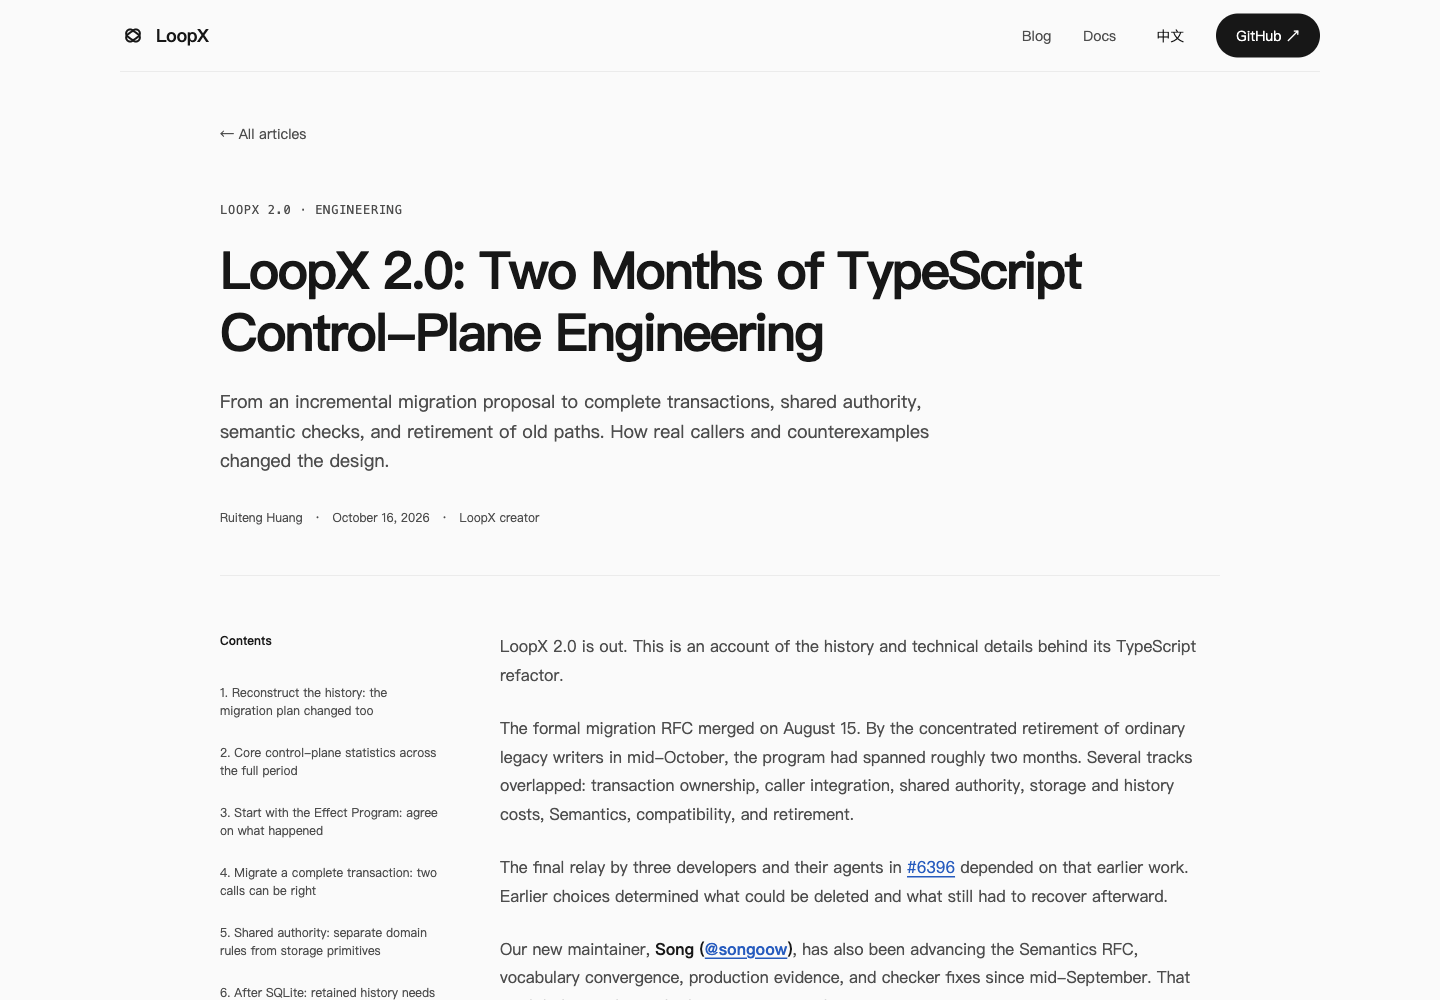
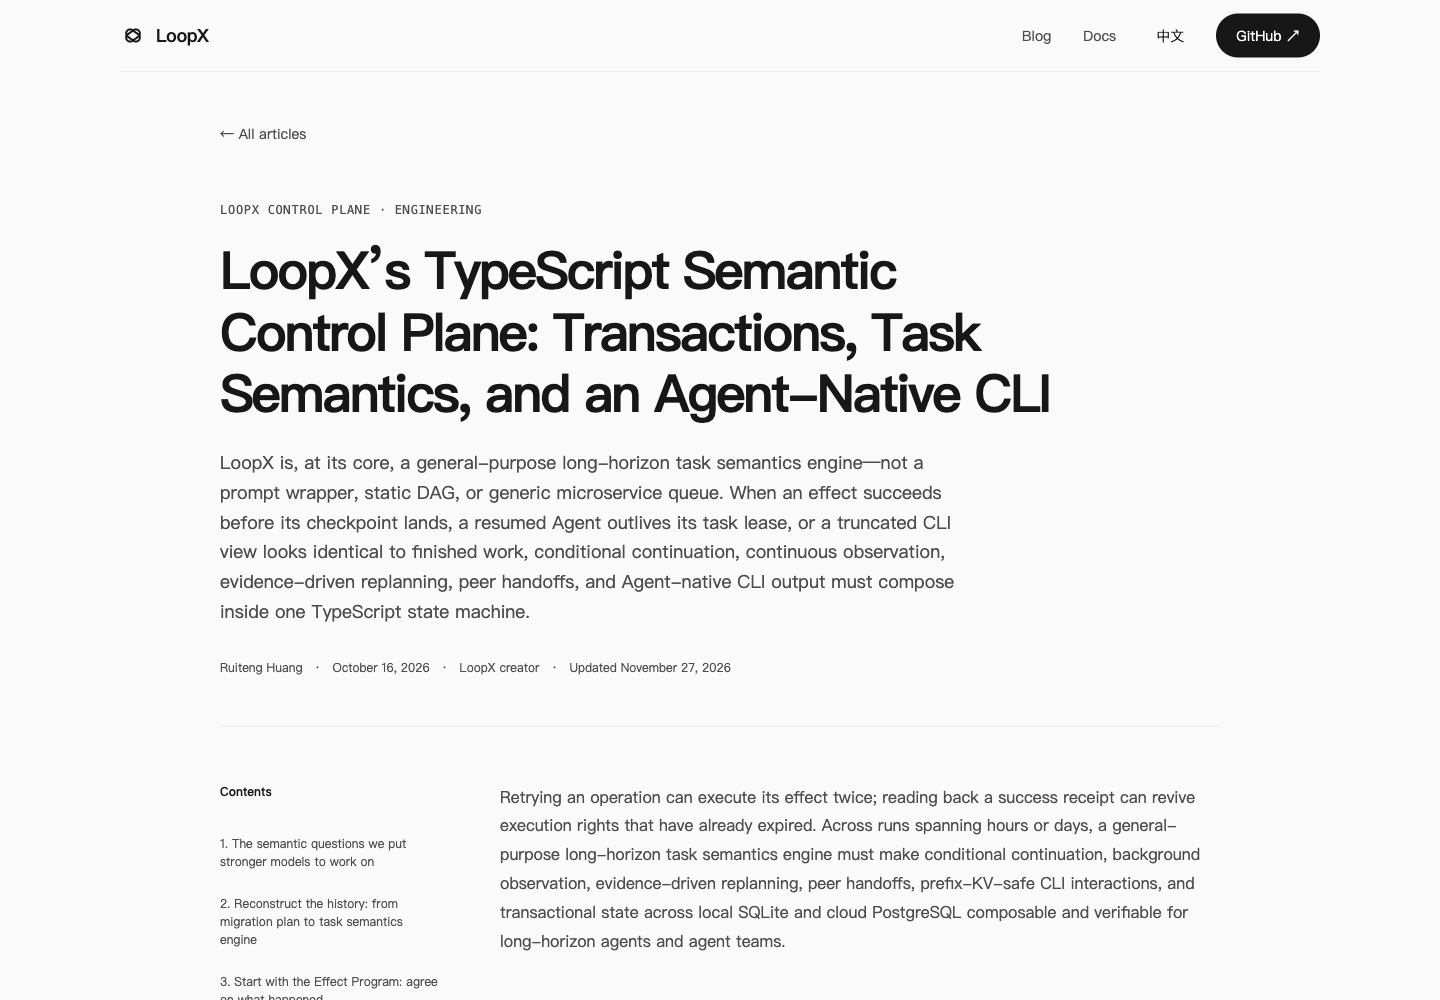
docs(blog): clarify peer inbox completion, make 103d telemetry git-reproducible, and refresh previews

diff --git a/apps/presentation/site/public/blog/typescript-control-plane-refactor/index.html b/apps/presentation/site/public/blog/typescript-control-plane-refactor/index.html
@@ -273,12 +273,12 @@ Existing replay:   TS reduction / original-result recovery
 </tbody></table></div>
 
 <h2 id="peer-handoff-semantics">9. Peer collaboration: why “returned” is not “finished”</h2>
-<p>When an Agent delegates a slice to a peer worker, message delivery is only transport—neither proof that the delegated work is finished nor proof that the requester has adopted it. Building on revision-guarded claims and handoffs (<a href="https://github.com/loopx-project/loopx/pull/3529">#3529</a>, <a href="https://github.com/loopx-project/loopx/pull/3669">#3669</a>, <a href="https://github.com/loopx-project/loopx/pull/4032">#4032</a>, <a href="https://github.com/loopx-project/loopx/pull/4094">#4094</a>), LoopX separates transport delivery, unfinished remainder declarations, requester adoption, and outcome custody:</p>
-<figure class="diagram" aria-label="Peer collaboration separates transport delivery from requester adoption and outcome custody">
-<p class="diagram-label">Peer return &amp; custody contract · transport delivery ≠ requester adoption</p>
+<p>When an Agent delegates a slice to a peer worker, message delivery is only transport—neither proof that the delegated work is finished nor proof that the requester has adopted it. Building on revision-guarded claims and handoffs (<a href="https://github.com/loopx-project/loopx/pull/3529">#3529</a>, <a href="https://github.com/loopx-project/loopx/pull/3669">#3669</a>, <a href="https://github.com/loopx-project/loopx/pull/4032">#4032</a>, <a href="https://github.com/loopx-project/loopx/pull/4094">#4094</a>), LoopX keeps transport delivery, inbox reply completion, per-update requester consumption, and goal acceptance separate:</p>
+<figure class="diagram" aria-label="Peer collaboration separates transport delivery from reply completion, requester consumption, and outcome custody">
+<p class="diagram-label">Peer return &amp; custody contract · transport delivery ≠ reply completion ≠ requester adoption</p>
 <div class="diagram-pair">
 <div class="diagram-node"><b>1. Transport delivery</b><span>A locked four-phase send state machine confirms the message reached the inbox, ordered strictly so newer updates cannot overtake unverified sends.</span><strong>Transport status: delivered</strong></div>
-<div class="diagram-node kernel"><b>2. Semantic completion &amp; adoption</b><span>Any conclusion declaring unfinished remaining work stays open in the inbox until the requester explicitly records a turn-bound adoption or rejection receipt.</span><strong>Semantic state: awaiting adoption</strong></div>
+<div class="diagram-node kernel"><b>2. Reply completion, consumption &amp; acceptance</b><span>A request whose latest conclusion declares remaining work stays open in the inbox until the peer publishes a final conclusion with zero remaining work; turn-bound requester consumption only acknowledges an individual update so it stops re-alerting, while goal acceptance remains separate.</span><strong>Semantic state: open until final conclusion</strong></div>
 </div>
 <p class="return-path">Custody handoff (<a href="https://github.com/loopx-project/loopx/pull/4094">#4094</a>, <a href="https://github.com/loopx-project/loopx/pull/9308">#9308</a>): original authorship and historical review provenance remain immutable when active ownership transfers under a roster-fenced commit.</p>
 </figure>
@@ -550,7 +550,7 @@ Existing replay:   TS reduction / original-result recovery
 <p>Public-safe <a href="../images/typescript-control-plane-refactor/core-pr-cohort.csv">PR records</a>, <a href="../images/typescript-control-plane-refactor/core-mainline-commits.csv">core mainline commits</a>, and <a href="../images/typescript-control-plane-refactor/core-statistics.json">metric JSON</a> accompany the draft. The PR cohort joins mainline commits touching the directory to GitHub merge metadata, counting each PR once. Two mainline commits have no verifiable merged-PR association; their commits and churn remain included.</p>
 <p>The research enumerated public PRs, then checked against mainline Git history. Direct reads supplemented 14 PR metadata records missed by search indexing. Source snapshots and processing scripts remain in the research materials. This inventory does not estimate tokens, model cost, CI compute, engineer-hours, or benchmark gains.</p>
 <h3>103-day convergence snapshot (August 15 – November 27, 2026)</h3>
-<p>Re-running the exact <code>method_version: 1</code> Git stock and first-parent <code>--no-renames</code> churn formulas from <code>d1fe05932a</code> through <code>953377fd7b</code> (<a href="https://github.com/loopx-project/loopx/compare/d1fe05932ac28690d393a38c78b4738ac12c78c0...953377fd7ba8235adf5da08012e593e1798e6ab5">103-day source comparison</a>) captures the post-cutover unified turn loop, task-semantics, Agent-CLI, zero-<code>Any</code>, and cloud storage SPI waves:</p>
+<p>Re-running the exact <code>method_version: 1</code> Git stock and first-parent <code>--no-renames</code> churn formulas from <code>d1fe05932a</code> through <code>953377fd7b</code> (<a href="https://github.com/loopx-project/loopx/compare/d1fe05932ac28690d393a38c78b4738ac12c78c0...953377fd7ba8235adf5da08012e593e1798e6ab5">103-day source comparison</a>) captures the post-cutover unified turn loop, task-semantics, Agent-CLI, zero-<code>Any</code>, and cloud storage SPI waves using strictly Git-reproducible counts (the committed <code>core-pr-cohort.csv</code> and <code>core-statistics.json</code> artifacts remain frozen at the October 16 API snapshot):</p>
 <div class="table-scroll" role="region" tabindex="0" aria-label="103-day core control-plane convergence telemetry"><table>
 <thead>
 <tr>
@@ -569,11 +569,11 @@ Existing replay:   TS reduction / original-result recovery
 <td align="right"><strong>103 days</strong> (104 / 105)</td>
 </tr>
 <tr>
-<td>Whole-repo merged PRs (all-time at Nov 27)</td>
+<td>Whole-repo 1st-parent mainline commits (at Nov 27)</td>
 <td align="right">—</td>
 <td align="right">—</td>
 <td align="right">—</td>
-<td align="right"><strong>8,476</strong> (9,024 1st-parent commits)</td>
+<td align="right"><strong>9,024</strong> (7,741 with <code>#N</code> in subject)</td>
 </tr>
 <tr>
 <td>Whole-repo 1st-parent commits since Aug 15</td>
@@ -590,11 +590,11 @@ Existing replay:   TS reduction / original-result recovery
 <td align="right"><strong>2,195</strong> (2,759 all-time)</td>
 </tr>
 <tr>
-<td><code>loopx/control_plane/</code> associated merged PRs (since Aug 15)</td>
+<td><code>loopx/control_plane/</code> unique <code>#N</code> PRs in Git subjects (since Aug 15)</td>
 <td align="right">0</td>
-<td align="right">1,121</td>
-<td align="right">+1,005 (0 overlap)</td>
-<td align="right"><strong>2,126</strong> (2,678+ all-time)</td>
+<td align="right">1,058 (86 unnumbered; 1,121 in Oct 16 API CSV)</td>
+<td align="right">+962 (90 unnumbered; 0 overlap)</td>
+<td align="right"><strong>2,020</strong> (176 unnumbered; 2,575 all-time)</td>
 </tr>
 <tr>
 <td><code>loopx/control_plane/</code> Python stock</td>

diff --git a/apps/presentation/site/public/blog/zh/typescript-control-plane-refactor/index.html b/apps/presentation/site/public/blog/zh/typescript-control-plane-refactor/index.html
@@ -273,12 +273,12 @@
 </tbody></table></div>
 
 <h2 id="peer-handoff-semantics">9. 对等协作：为什么“已返回”不等于“已完结”</h2>
-<p>当一个 Agent 把子任务委派给对等同伴时，消息送达只是传输层事件——既不证明子任务已经完结，也不证明委托方已经采纳该结果。在版本受控的认领与交接基础（<a href="https://github.com/loopx-project/loopx/pull/3529">#3529</a>、<a href="https://github.com/loopx-project/loopx/pull/3669">#3669</a>、<a href="https://github.com/loopx-project/loopx/pull/4032">#4032</a>、<a href="https://github.com/loopx-project/loopx/pull/4094">#4094</a>）之上，LoopX 将传输投递、未完余量声明、委托方采纳与成果托管权严格拆开：</p>
-<figure class="diagram" aria-label="对等协作将传输层送达与委托方采纳及成果托管权严格分离">
-<p class="diagram-label">对等返回与成果托管合同 · 传输送达 ≠ 委托方采纳</p>
+<p>当一个 Agent 把子任务委派给对等同伴时，消息送达只是传输层事件——既不证明子任务已经完结，也不证明委托方已经采纳该结果。在版本受控的认领与交接基础（<a href="https://github.com/loopx-project/loopx/pull/3529">#3529</a>、<a href="https://github.com/loopx-project/loopx/pull/3669">#3669</a>、<a href="https://github.com/loopx-project/loopx/pull/4032">#4032</a>、<a href="https://github.com/loopx-project/loopx/pull/4094">#4094</a>）之上，LoopX 将传输送达、收件箱答复完结、逐条结果消费与目标验收严格拆开：</p>
+<figure class="diagram" aria-label="对等协作将传输层送达与答复完结、委托方逐条消费及成果托管权严格分离">
+<p class="diagram-label">对等返回与成果托管合同 · 传输送达 ≠ 答复完结 ≠ 委托方采纳</p>
 <div class="diagram-pair">
 <div class="diagram-node"><b>1. 传输层投递</b><span>加锁的四阶段发送状态机确认消息进入收件箱，并由前驱顺序门禁阻止后续更新抢跑未确认的前序发送。</span><strong>传输状态：已送达（仅限传输层）</strong></div>
-<div class="diagram-node kernel"><b>2. 语义完结与委托方采纳</b><span>只要阶段性结论仍声明存在未完余量与唤醒条件，收件箱即保持待结状态，直至委托方写入绑定轮次的采纳或拒绝回执。</span><strong>语义状态：等待采纳完结</strong></div>
+<div class="diagram-node kernel"><b>2. 答复完结、单条消费与目标验收</b><span>只要最新结论仍声明存在未完余量，原请求在收件箱中就保持未结清，唯有对等方发布无剩余事项的完整结论才满足答复义务；委托方绑定轮次的消费记录仅确认单条进展不再重复提醒，目标级验收亦独立判定。</span><strong>语义状态：待完整结论结清</strong></div>
 </div>
 <p class="return-path">成果托管移交（<a href="https://github.com/loopx-project/loopx/pull/4094">#4094</a>、<a href="https://github.com/loopx-project/loopx/pull/9308">#9308</a>）：在成员表版本围栏下移交当前负责人时，原始声明归属与历史审查归因保持不可变。</p>
 </figure>
@@ -550,7 +550,7 @@
 <p>公开安全的<a href="../../images/typescript-control-plane-refactor/core-pr-cohort.csv">PR 清单</a>、<a href="../../images/typescript-control-plane-refactor/core-mainline-commits.csv">核心主干提交清单</a>和<a href="../../images/typescript-control-plane-refactor/core-statistics.json">指标 JSON</a>随稿提供。PR 集合来自触及该目录的主干提交与 GitHub 合并元数据的对应关系；同一 PR 只计一次。2 次主干提交没有可核验的合并 PR 对应，仍计入提交和代码变化量。</p>
 <p>取证中先枚举公开 PR，再用 Git 主干反查；直接读取补齐了搜索索引漏掉的 14 个 PR 元数据。源数据与处理脚本保留在本次调研材料中。没有从这份盘点推算 token、模型费用、CI 算力、研发工时或 benchmark 收益。</p>
 <h3>103 天收敛快照（2026 年 8 月 15 日至 11 月 27 日）</h3>
-<p>沿用完全一致的 <code>method_version: 1</code> 源码存量与第一父链 <code>--no-renames</code> 累计变更公式，从 <code>d1fe05932a</code> 复算至 <code>953377fd7b</code>（见 <a href="https://github.com/loopx-project/loopx/compare/d1fe05932ac28690d393a38c78b4738ac12c78c0...953377fd7ba8235adf5da08012e593e1798e6ab5">103 天起止源码对照</a>），可完整刻画 <code>#6396</code> 之后的统一轮次闭环、长程任务原语组合、面向 Agent 的 CLI、零 <code>Any</code> 棘轮以及云端存储 SPI 抽离阶段：</p>
+<p>沿用完全一致的 <code>method_version: 1</code> 源码存量与第一父链 <code>--no-renames</code> 累计变更公式，从 <code>d1fe05932a</code> 复算至 <code>953377fd7b</code>（见 <a href="https://github.com/loopx-project/loopx/compare/d1fe05932ac28690d393a38c78b4738ac12c78c0...953377fd7ba8235adf5da08012e593e1798e6ab5">103 天起止源码对照</a>），以下纯 Git 历史可复算指标完整刻画了 <code>#6396</code> 之后的统一轮次闭环、长程任务原语组合、面向 Agent 的 CLI、零 <code>Any</code> 棘轮以及云端存储 SPI 抽离阶段（随仓提交的 <code>core-pr-cohort.csv</code> 与 <code>core-statistics.json</code> 保持冻结在 10 月 16 日 API 快照）：</p>
 <div class="table-scroll" role="region" tabindex="0" aria-label="103 天核心控制面收敛统计表"><table>
 <thead>
 <tr>
@@ -569,11 +569,11 @@
 <td align="right"><strong>103 天</strong>（104 / 105）</td>
 </tr>
 <tr>
-<td>全仓累计合并 PR（截至 11-27）</td>
+<td>全仓第一父链主干提交（截至 11-27）</td>
 <td align="right">—</td>
 <td align="right">—</td>
 <td align="right">—</td>
-<td align="right"><strong>8,476</strong>（9,024 次第一父提交）</td>
+<td align="right"><strong>9,024</strong>（7,741 次提交标题含 <code>#N</code>）</td>
 </tr>
 <tr>
 <td>8 月 15 日以来全仓第一父链提交</td>
@@ -590,11 +590,11 @@
 <td align="right"><strong>2,195</strong>（全历史 2,759）</td>
 </tr>
 <tr>
-<td><code>loopx/control_plane/</code> 关联合并 PR（08-15 起）</td>
+<td><code>loopx/control_plane/</code> 提交标题去重 <code>#N</code> PR（08-15 起）</td>
 <td align="right">0</td>
-<td align="right">1,121</td>
-<td align="right">+1,005（零重叠）</td>
-<td align="right"><strong>2,126</strong>（全历史 2,678+）</td>
+<td align="right">1,058（86 次无编号；10-16 API 清单为 1,121）</td>
+<td align="right">+962（90 次无编号；零重叠）</td>
+<td align="right"><strong>2,020</strong>（176 次无编号；全历史 2,575）</td>
 </tr>
 <tr>
 <td><code>loopx/control_plane/</code> Python 源码存量</td>
